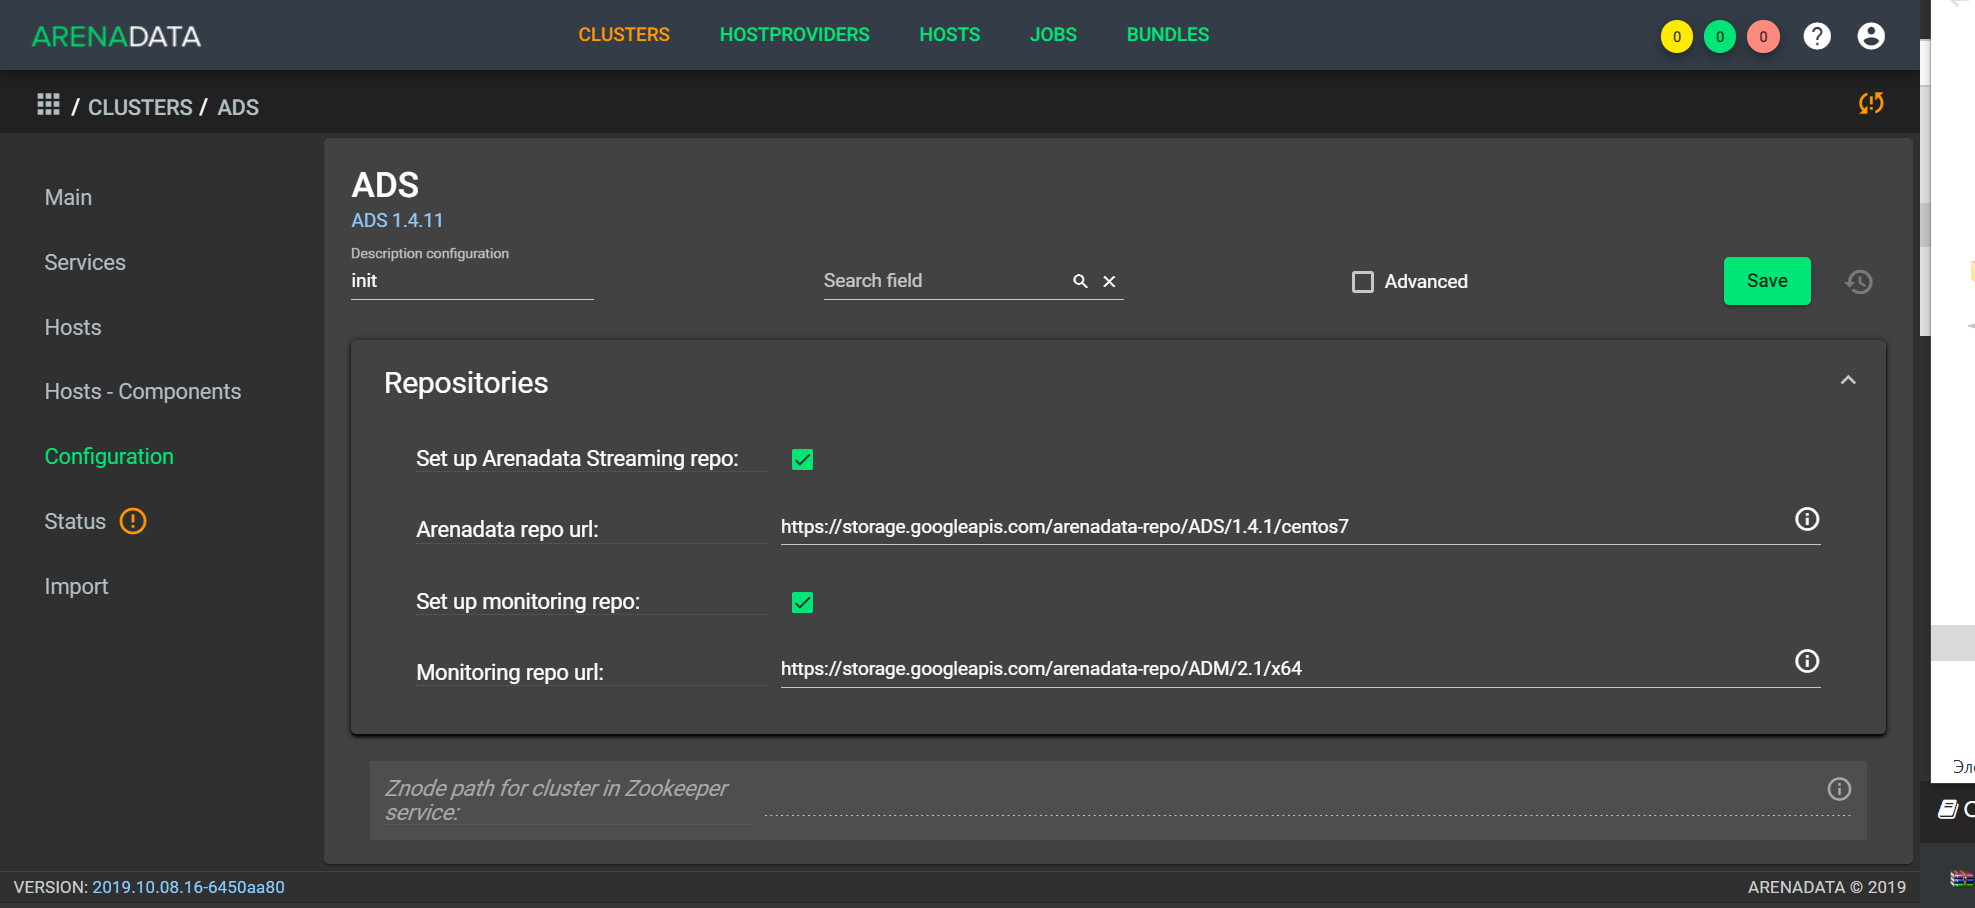
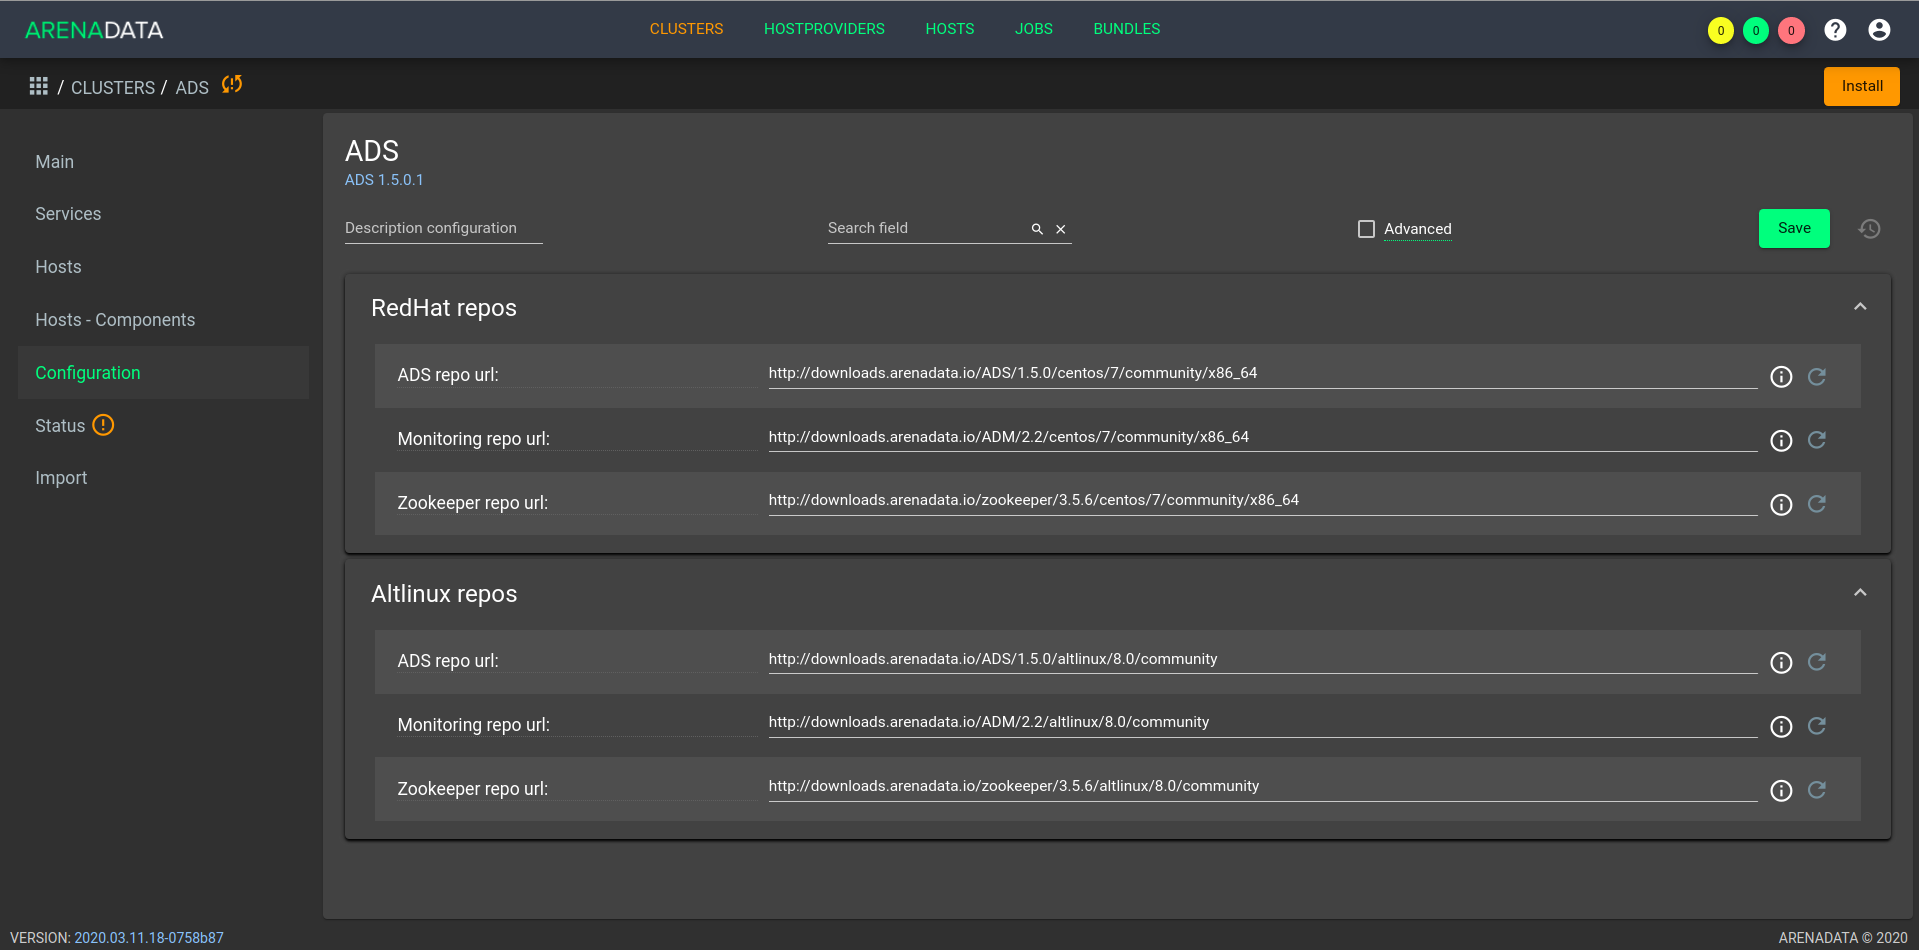
Replaced urls and images with repositories

diff --git a/source/MiNiFi/index.rst b/source/MiNiFi/index.rst
@@ -36,7 +36,7 @@
    Flow Агентов
 
 Для успешной загрузки *Flow* на *MiNiFi Agent*, необходимо сохранить шаблон с названием указанным в `nifi.minifi.notifier.ingestors.pull.http.query <https://docs.arenadata.io/ads/v1.5-RUS/Config/ADCM.html#minifi>`_ с добавлением версии (например, *minifi.v1*).
-Если вы изменили *Flow*, то для актуализации его на агентах необходимо увеличить версию шаблона (например, minifi.v2)
+Если вы изменили *Flow*, то для актуализации его на агентах необходимо увеличить версию шаблона (например, *minifi.v2*)
 
 
 Автоматическое обновление конфигурации *MiNiFi Agent* происходить с периодичностью, заданной `nifi.minifi.notifier.ingestors.pull.http.period.ms <https://docs.arenadata.io/ads/v1.5-RUS/Config/ADCM.html#minifi>`_.
@@ -46,7 +46,7 @@
 Проверка конфигурации
 -----------------------
 
-* Текущую конфигурацию *Flow*, которую запрашивают *MiNiFi Agent* у *MiNiFi C2 Server*, можно проверить, обратившись к API *MiNiFi C2 Server* (:numref:`Рис.%s. <minifi_с2_api>`). Ссылка указана в описании сервиса *MiNiFi* в **ADCM**.
+Текущую конфигурацию *Flow*, которую запрашивают *MiNiFi Agent* у *MiNiFi C2 Server*, можно проверить, обратившись к API *MiNiFi C2 Server* (:numref:`Рис.%s. <minifi_c2_api>`). Ссылка указана в описании сервиса *MiNiFi* в **ADCM**.
 
 .. _minifi_c2_api:
 

diff --git a/source/Install/download.rst b/source/Install/download.rst
@@ -39,11 +39,11 @@
 
    Магазин Приложений
 
-Для загрузки дистрибутива платформы следует перейти на страницу продукта, кликнув на продукт **Arenadata Streaming**. При этом происходит переход на соответствующую страницу с кратким описанием продукта, ссылками на компоненты дистрибутива и информацией о релизе (:numref:`Рис.%s.<install_download_download-ADS_1.4>`).
+Для загрузки дистрибутива платформы следует перейти на страницу продукта, кликнув на продукт **Arenadata Streaming**. При этом происходит переход на соответствующую страницу с кратким описанием продукта, ссылками на компоненты дистрибутива и информацией о релизе (:numref:`Рис.%s.<install_download_download-ADS_1.5>`).
 
-.. _install_download_download-ADS_1.4:
+.. _install_download_download-ADS_1.5:
 
-.. figure:: ../imgs/install_download_download-ADS_1.4.png
+.. figure:: ../imgs/install_download_download-ADS_1.5.png
    :align: center
 
    Страница загрузки Arenadata Streaming

diff --git a/source/Requirements/prog.rst b/source/Requirements/prog.rst
@@ -35,14 +35,14 @@
 
       - Репозиторий *ADS*: http://downloads.arenadata.io/ADS/1.5.0/centos/7/community/x86_64/
 
-      - Репозиторий *Arenadata Monitoring*: http://downloads.arenadata.io/ADM/2.1/x64/
+      - Репозиторий *Arenadata Monitoring*: http://downloads.arenadata.io/ADM/2.2/centos/7/community/x86_64/
 
-      - Репозитоий *Zookeeper*: http://downloads.arenadata.io/zookeeper/3.5.6/centos7/
+      - Репозитоий *Zookeeper*: http://downloads.arenadata.io/zookeeper/3.5.6/centos/7/community/x86_64/
 
     - **Alt Linux**:
 
-      - Репозиторий *ADS*: http://downloads.arenadata.io/ADS/1.5.0/altlinux/8.0/community/x86_64/
+      - Репозиторий *ADS*: http://downloads.arenadata.io/ADS/1.5.0/altlinux/8.0/community/
 
-      - Репозиторий *Arenadata Monitoring*: http://alt-linux-repo.infra.arenadata.io/monitoring-altlinux/
+      - Репозиторий *Arenadata Monitoring*: http://downloads.arenadata.io/ADM/2.2/altlinux/8.0/community/
 
-      - Репозитоий *Zookeeper*: http://downloads.arenadata.io/zookeeper/3.5.6/altlinux/c8.0
+      - Репозитоий *Zookeeper*: http://downloads.arenadata.io/zookeeper/3.5.6/altlinux/8.0/community/
